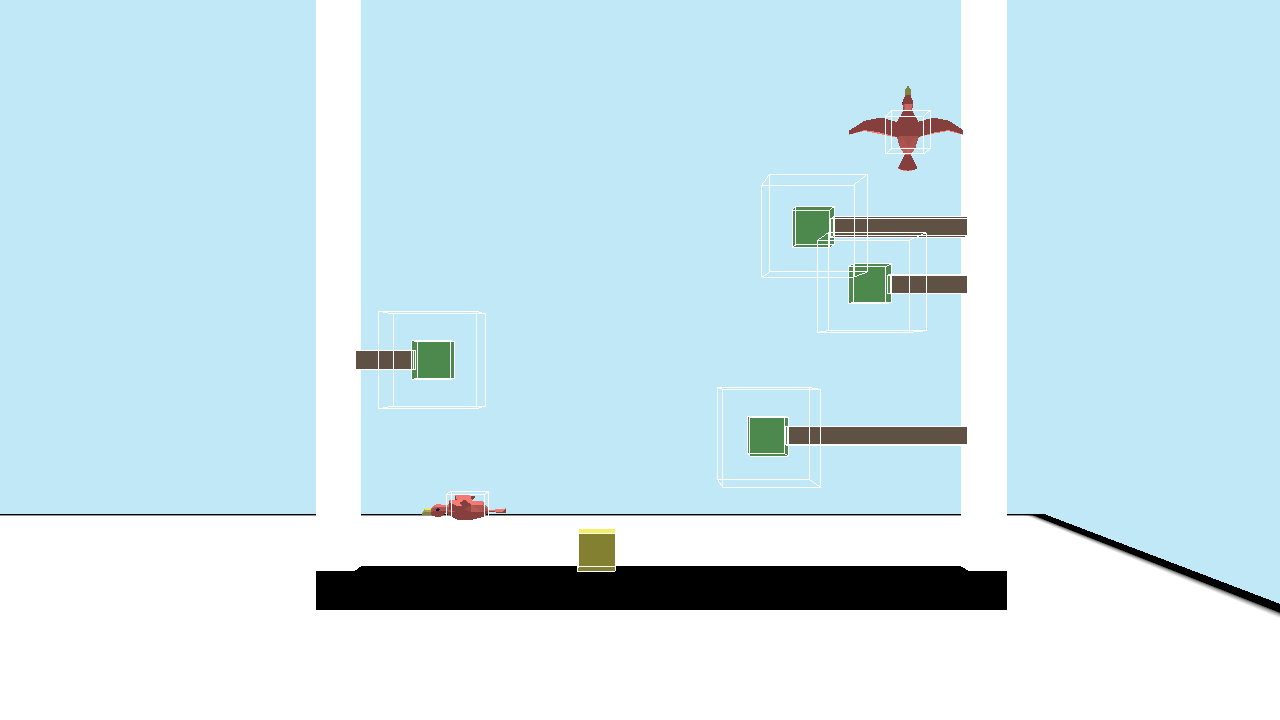
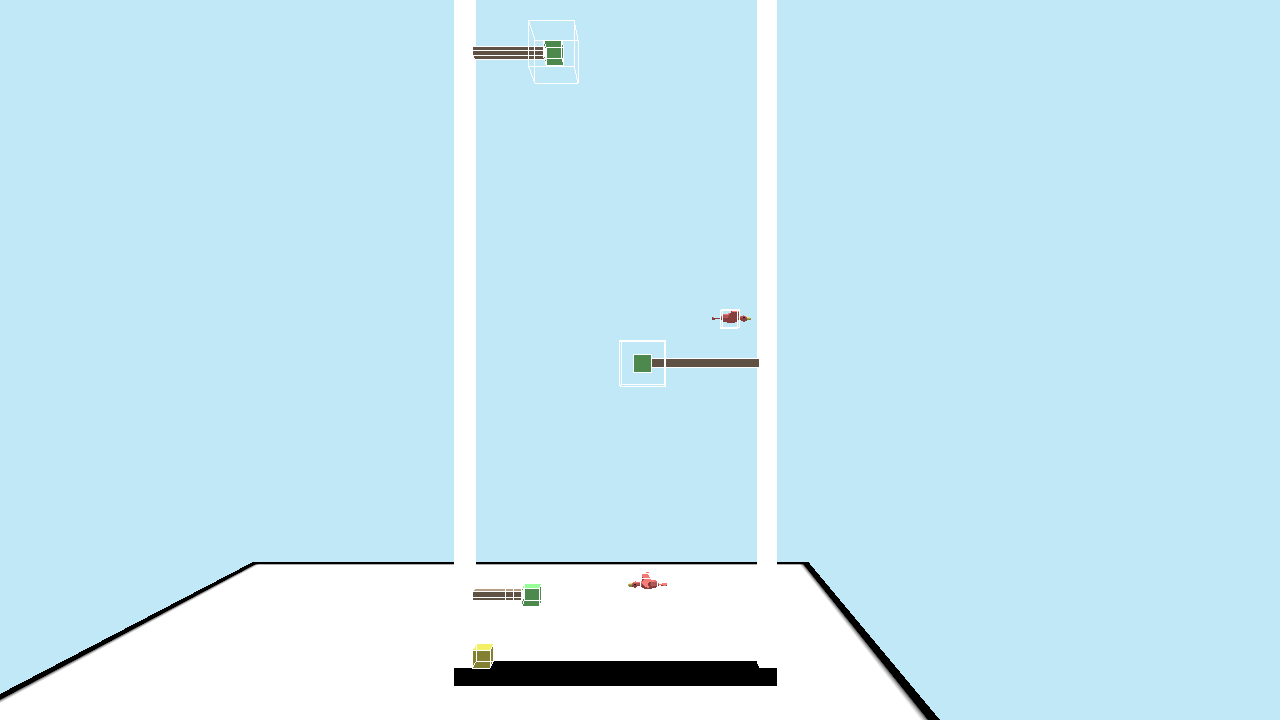
デカい草食べてたら時間が増えるように

Changed region(s): [[0.0, 0.0, 1.0, 1.0], [0.3438, 0.8861, 0.625, 0.9778]]

diff --git a/Application/Objects/Player/Player.h b/Application/Objects/Player/Player.h
@@ -306,7 +306,7 @@ private:
 	Vector3 velocity_ = { 0.0f,0.0f,0.0f };			// 加速度
 	Vector3 moveDirection_ = { 0.0f,0.0f,0.0f };	// 動く向き(nowFrame)
 	Vector3 beforeDirection_ = { 0.0f,0.0f,0.0f };	// 動く向き(beforeFrame)
-	float defaultSpeed_ = 0.1f;						// 通常時の移動速度
+	float defaultSpeed_ = 0.05f;					// 通常時の移動速度
 	float boostSpeed_ = 0.2f;						// ブースト時の速度
 	float returnSpeed_ = 1.0f;						// 帰還時の速度
 	float speed_ = defaultSpeed_;					// 動く速度
@@ -333,17 +333,17 @@ private:
 	// 時間制限 : 単位(sec)
 	float kTimeLimit_ = 10.0f;				// タイマーの限界値
 	float extendTimer_ = 0;					// 伸びられる残り時間
-	float grassTime_ = 3.0f / 2.0f;			// 草を食べて追加される時間
-	float largeGrassTime_ = 6.0f / 2.0f;	// 大きい草
+	float grassTime_ = 1.0f;				// 草を食べて追加される時間
+	float largeGrassTime_ = 3.0f;			// 大きい草
 
-	float kBoostTime_ = 1.5f;				// ブーストの最大効果時間
+	float kBoostTime_ = 1.0f;				// ブーストの最大効果時間
 	float boostTimer_ = 0;					// 現在のブーストの残り時間
 
 	float kBoostCT_ = 5.0f;					// ブーストのクールタイム
 	float boostCoolTimer_ = 0;				// 現在のクールタイムトの残り時間
 
 
-	float kCreateGrassTime_ = 3.0f;			// 草が詰まるまでの時間
+	float kCreateGrassTime_ = 2.5f;			// 草が詰まるまでの時間
 	float createGrassTimer_ = 0.0f;			// 草が詰まるまでのタイマー
 	bool isCreateGrass_ = false;			// 草を吐いたか
 

diff --git a/Application/Objects/Player/Player.cpp b/Application/Objects/Player/Player.cpp
@@ -208,7 +208,7 @@ void Player::OnEnterCollision(BaseCollider* self, BaseCollider* other)
 		{
 			if (kMaxGrassGauge_ > grassGauge_ && createGrassTimer_ <= 0)
 			{
-				if (dynamic_cast<AABBCollider*>(other)->GetWorldTransform().scale_.x <= /*GetRadius()*/2.0f)
+				if (dynamic_cast<AABBCollider*>(other)->GetWorldTransform().scale_.x <= /*GetRadius()*/1.1f)
 				{
 					extendTimer_ = (std::min)(kTimeLimit_, extendTimer_ + grassTime_);
 				} 
